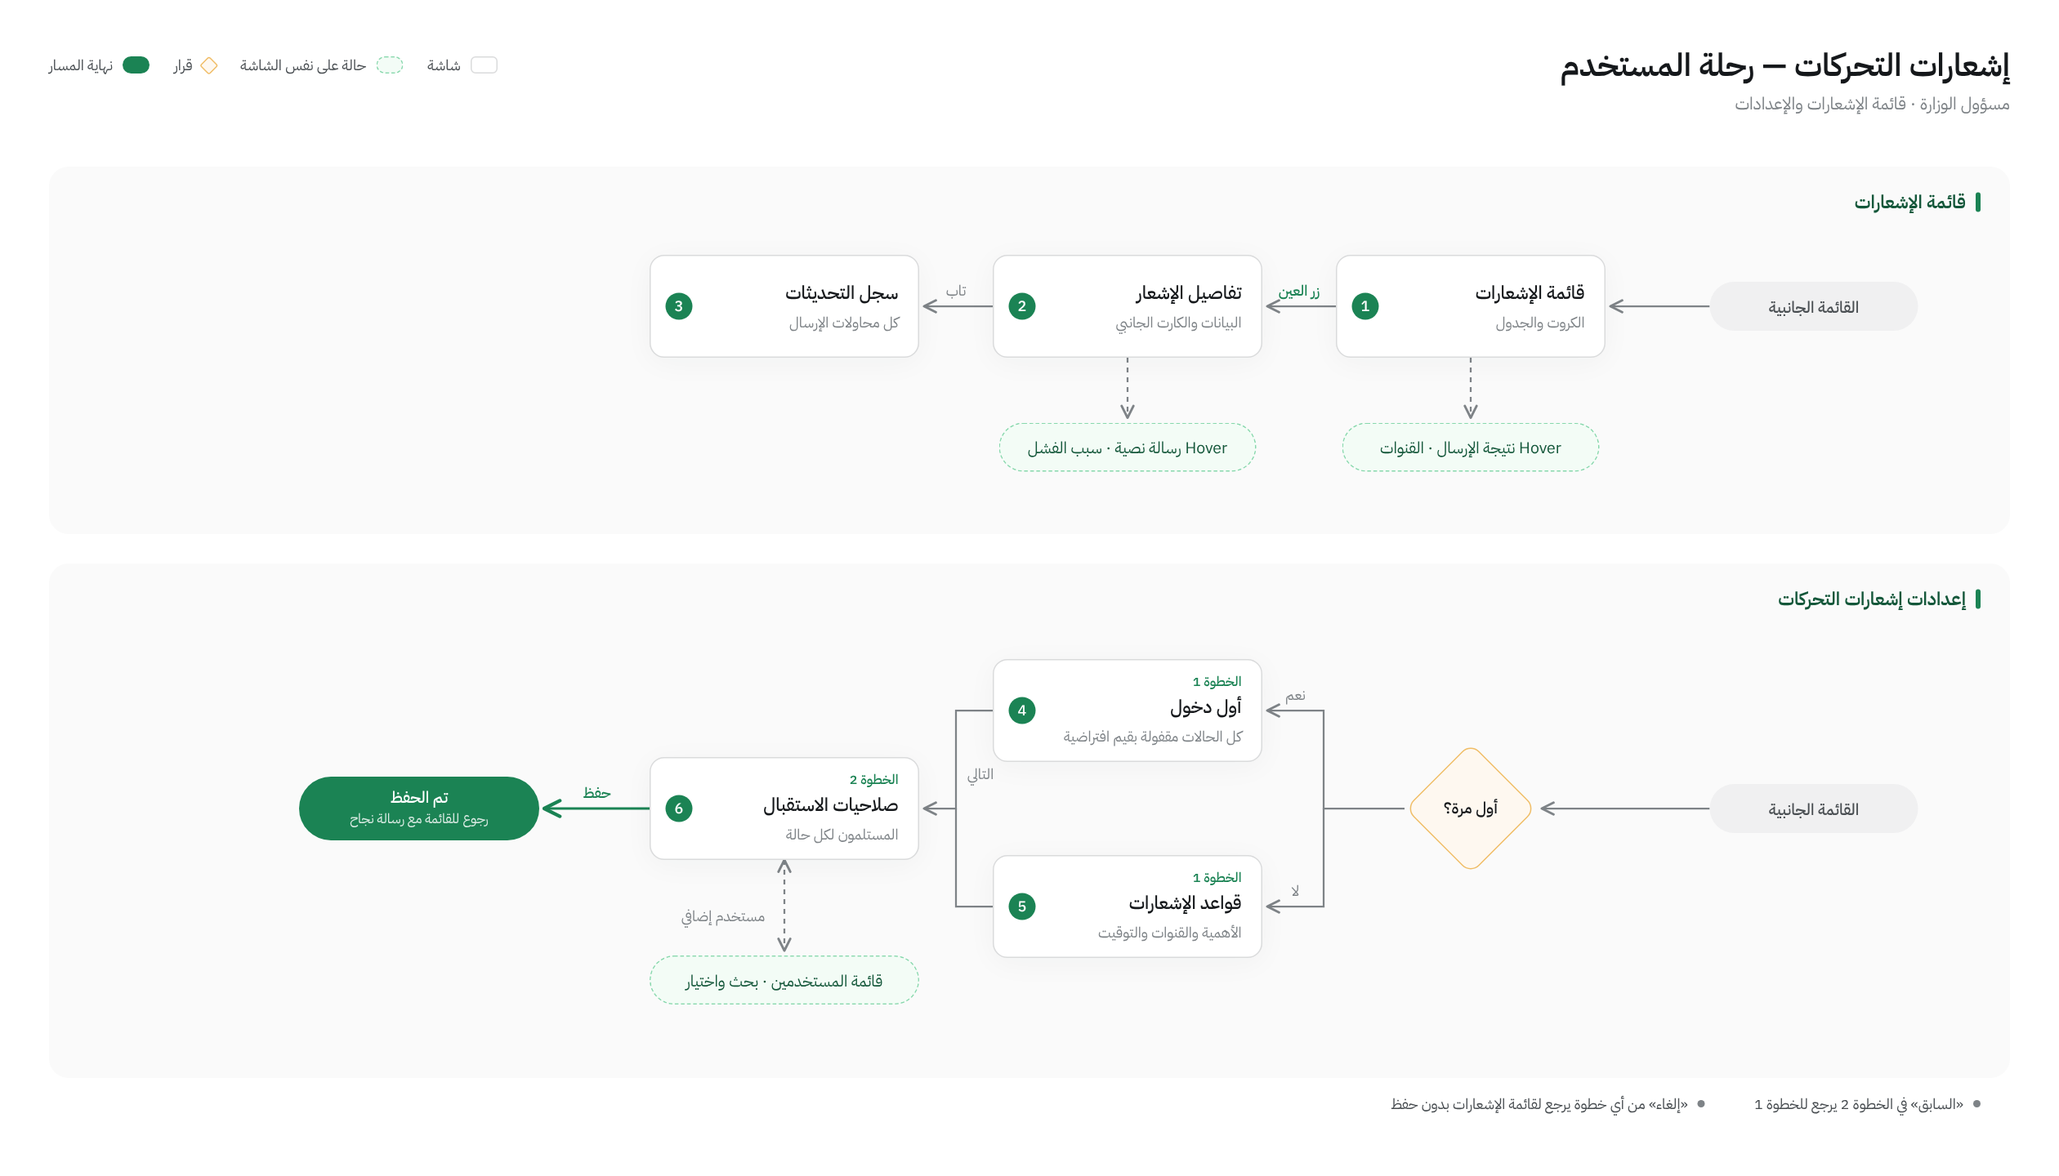
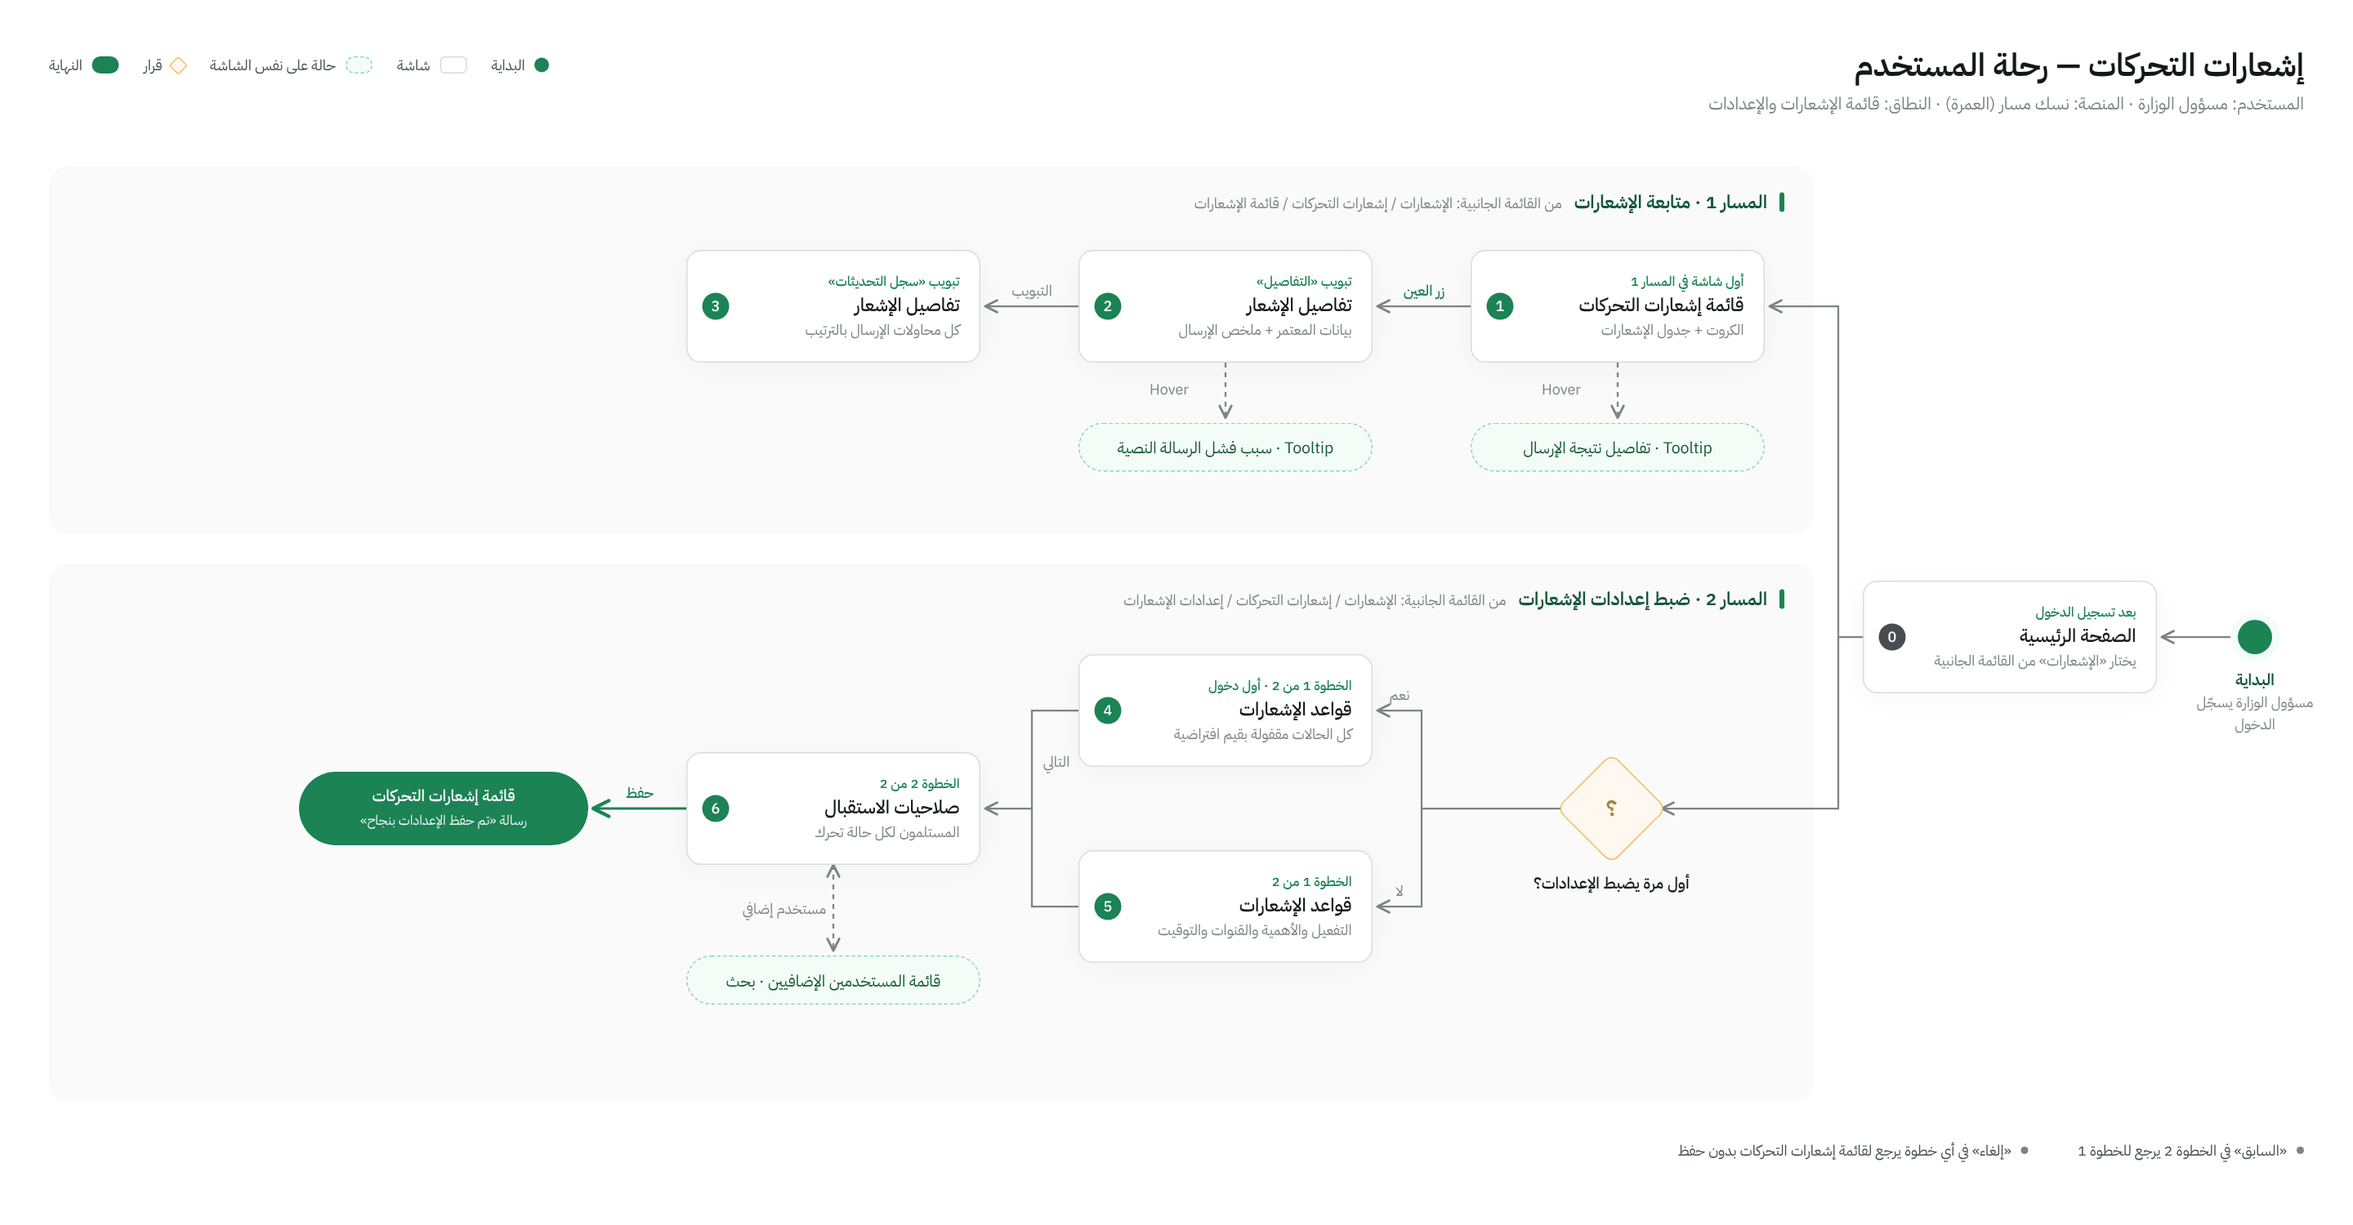
User flow v3: explicit start point, real screen names and nav paths
Claude-Session: https://claude.ai/code/session_01CyctH4WFBszWbBNkvnfQuz

diff --git a/flows/movement-notifications-user-flow.html b/flows/movement-notifications-user-flow.html
@@ -4,91 +4,104 @@
 :root{--sa600:#1b8354;--sa800:#14573a;--sa50:#f3fcf6;--sa300:#88d8ad;--n10:#fafafa;--n20:#f0f0f1;--n30:#dadbdc;--n60:#7e8387;--n80:#484d51;--n200:#15181b;--straw20:#fef8f0;--straw100:#f0bd66;}
 *{box-sizing:border-box}
 body{margin:0;background:#fff;font-family:"IBM Plex Sans Arabic";color:var(--n200)}
-#c{position:relative;width:1680px;height:960px;background:#fff}
+#c{position:relative;width:1920px;height:1000px;background:#fff}
 .title{position:absolute;right:40px;top:36px;font-weight:600;font-size:26px;line-height:36px}
 .sub{position:absolute;right:40px;top:74px;font-size:14px;color:var(--n60)}
-.lane{position:absolute;left:40px;width:1600px;background:var(--n10);border-radius:16px}
-.laneT{position:absolute;right:24px;top:18px;font-weight:600;font-size:15px;color:var(--sa800);display:flex;gap:8px;align-items:center}
-.laneT i{width:4px;height:16px;border-radius:2px;background:var(--sa600);display:inline-block}
-.card{position:absolute;width:220px;height:84px;background:#fff;border:1px solid var(--n30);border-radius:12px;padding:0 16px;display:flex;flex-direction:column;justify-content:center;box-shadow:0 4px 24px rgba(35,40,45,.04)}
-.card em{display:block;font-style:normal;font-size:11px;line-height:14px;color:var(--sa600);font-weight:500;margin-bottom:2px}
-.card b{display:block;white-space:nowrap;font-weight:500;font-size:15px;line-height:22px;padding-left:28px}
-.card span{display:block;font-size:12px;line-height:18px;color:var(--n60);margin-top:4px}
+.lane{position:absolute;left:40px;width:1440px;background:var(--n10);border-radius:16px}
+.laneT{position:absolute;right:24px;top:18px;display:flex;gap:10px;align-items:baseline}
+.laneT b{font-weight:600;font-size:15px;color:var(--sa800)}
+.laneT span{font-size:12px;color:var(--n60)}
+.laneT i{align-self:center;width:4px;height:16px;border-radius:2px;background:var(--sa600);display:inline-block}
+.card{position:absolute;width:240px;height:92px;background:#fff;border:1px solid var(--n30);border-radius:12px;padding:0 16px 0 44px;display:flex;flex-direction:column;justify-content:center;box-shadow:0 4px 24px rgba(35,40,45,.04)}
+.card em{font-style:normal;font-size:11px;line-height:16px;color:var(--sa600);font-weight:500;white-space:nowrap}
+.card b{font-weight:500;font-size:15px;line-height:22px;white-space:nowrap}
+.card span{font-size:12px;line-height:18px;color:var(--n60);white-space:nowrap}
 .num{position:absolute;left:12px;top:50%;margin-top:-11px;width:22px;height:22px;border-radius:11px;background:var(--sa600);color:#fff;font-size:12px;font-weight:500;display:flex;align-items:center;justify-content:center}
+.card.home .num{background:var(--n80)}
 .pill{position:absolute;height:40px;border-radius:20px;display:flex;align-items:center;justify-content:center;font-size:13px;white-space:nowrap}
 .state{background:var(--sa50);border:1px dashed var(--sa300);color:var(--sa800)}
-.start{background:var(--n20);color:var(--n80);font-weight:500}
-.endp{background:var(--sa600);color:#fff;font-weight:500;height:52px;border-radius:26px;flex-direction:column;line-height:18px}
-.endp small{font-size:11px;font-weight:400;opacity:.85}
-.dia{position:absolute;width:76px;height:76px;transform:rotate(45deg);background:var(--straw20);border:1.5px solid var(--straw100);border-radius:10px}
-.diaT{position:absolute;width:120px;text-align:center;font-size:13px;font-weight:500}
+.endp{background:var(--sa600);color:#fff;font-weight:500;height:60px;border-radius:30px;flex-direction:column;line-height:20px}
+.endp small{font-size:11px;font-weight:400;opacity:.9}
+.dia{position:absolute;width:64px;height:64px;transform:rotate(45deg);background:var(--straw20);border:1.5px solid var(--straw100);border-radius:8px}
+.diaQ{position:absolute;font-size:18px;font-weight:600;color:#a88447;width:40px;text-align:center}
+.diaT{position:absolute;width:160px;text-align:center;font-size:13px;font-weight:500;line-height:18px}
 .lbl{position:absolute;font-size:12px;color:var(--n60);line-height:18px;white-space:nowrap;transform:translate(50%,-100%);padding-bottom:4px}
 .lbl.g{color:var(--sa600);font-weight:500}
+.start{position:absolute;width:28px;height:28px;border-radius:14px;background:var(--sa600);box-shadow:0 0 0 6px var(--sa50)}
+.startT{position:absolute;width:130px;text-align:center;font-size:13px;line-height:18px}
+.startT b{display:block;font-weight:600;color:var(--sa800)}
+.startT span{color:var(--n60);font-size:12px}
 svg{position:absolute;left:0;top:0}
 .legend{position:absolute;left:40px;top:44px;display:flex;gap:20px;font-size:12px;color:var(--n80);align-items:center}
 .legend div{display:flex;gap:8px;align-items:center}
+.lg-start{width:12px;height:12px;border-radius:6px;background:var(--sa600)}
 .lg-card{width:22px;height:14px;border:1px solid var(--n30);border-radius:4px;background:#fff}
 .lg-state{width:22px;height:14px;border:1px dashed var(--sa300);border-radius:7px;background:var(--sa50)}
 .lg-dia{width:11px;height:11px;transform:rotate(45deg);border:1.5px solid var(--straw100);background:var(--straw20);border-radius:2px}
 .lg-end{width:22px;height:14px;border-radius:7px;background:var(--sa600)}
-.notes{position:absolute;right:64px;top:892px;display:flex;gap:40px;font-size:12px;color:var(--n80)}
+.notes{position:absolute;right:40px;top:930px;display:flex;gap:40px;font-size:12px;color:var(--n80)}
 .notes div{display:flex;gap:8px;align-items:center}
 .notes i{display:inline-block;width:6px;height:6px;border-radius:3px;background:var(--n60)}
 </style></head><body><div id="c">
 <div class="title">إشعارات التحركات — رحلة المستخدم</div>
-<div class="sub">مسؤول الوزارة · قائمة الإشعارات والإعدادات</div>
-<div class="legend"><div><span class="lg-card"></span>شاشة</div><div><span class="lg-state"></span>حالة على نفس الشاشة</div><div><span class="lg-dia"></span>قرار</div><div><span class="lg-end"></span>نهاية المسار</div></div>
+<div class="sub">المستخدم: مسؤول الوزارة · المنصة: نسك مسار (العمرة) · النطاق: قائمة الإشعارات والإعدادات</div>
+<div class="legend"><div><span class="lg-start"></span>البداية</div><div><span class="lg-card"></span>شاشة</div><div><span class="lg-state"></span>حالة على نفس الشاشة</div><div><span class="lg-dia"></span>قرار</div><div><span class="lg-end"></span>النهاية</div></div>
 
-<div class="lane" style="top:136px;height:300px"><div class="laneT"><i></i>قائمة الإشعارات</div></div>
-<div class="lane" style="top:460px;height:420px"><div class="laneT"><i></i>إعدادات إشعارات التحركات</div></div>
+<div class="lane" style="top:136px;height:300px"><div class="laneT"><i></i><b>المسار 1 · متابعة الإشعارات</b><span>من القائمة الجانبية: الإشعارات / إشعارات التحركات / قائمة الإشعارات</span></div></div>
+<div class="lane" style="top:460px;height:440px"><div class="laneT"><i></i><b>المسار 2 · ضبط إعدادات الإشعارات</b><span>من القائمة الجانبية: الإشعارات / إشعارات التحركات / إعدادات الإشعارات</span></div></div>
 
-<svg width="1680" height="960" viewBox="0 0 1680 960" fill="none">
+<svg width="1920" height="1000" viewBox="0 0 1920 1000" fill="none">
 <defs>
 <marker id="a" viewBox="0 0 10 10" refX="9" refY="5" markerWidth="8" markerHeight="8" orient="auto-start-reverse"><path d="M1 1L9 5L1 9" stroke="#7e8387" stroke-width="1.6" fill="none" stroke-linecap="round" stroke-linejoin="round"/></marker>
 <marker id="ag" viewBox="0 0 10 10" refX="9" refY="5" markerWidth="8" markerHeight="8" orient="auto-start-reverse"><path d="M1 1L9 5L1 9" stroke="#1b8354" stroke-width="1.8" fill="none" stroke-linecap="round" stroke-linejoin="round"/></marker>
 </defs>
 <g stroke="#7e8387" stroke-width="1.5">
-<!-- lane 1 -->
-<path d="M1395 250H1314" marker-end="url(#a)"/>
-<path d="M1090 250H1034" marker-end="url(#a)"/>
-<path d="M810 250H754" marker-end="url(#a)"/>
-<path d="M1200 292V341" stroke-dasharray="4 4" marker-end="url(#a)"/>
-<path d="M920 292V341" stroke-dasharray="4 4" marker-end="url(#a)"/>
-<!-- lane 2 -->
-<path d="M1395 660H1258" marker-end="url(#a)"/>
-<path d="M1146 660H1080V580H1034" marker-end="url(#a)"/>
-<path d="M1080 660V740H1034"  marker-end="url(#a)"/>
-<path d="M810 580H780V660H754" marker-end="url(#a)"/>
-<path d="M810 740H780V660"/>
-<path d="M640 702V776" stroke-dasharray="4 4" marker-end="url(#a)" marker-start="url(#a)"/>
+<path d="M1826 520H1764" marker-end="url(#a)"/>
+<path d="M1520 520H1500V250H1444" marker-end="url(#a)"/>
+<path d="M1500 520V660H1356" marker-end="url(#a)"/>
+<path d="M1200 250H1124" marker-end="url(#a)"/>
+<path d="M880 250H804" marker-end="url(#a)"/>
+<path d="M1320 296V341" stroke-dasharray="4 4" marker-end="url(#a)"/>
+<path d="M1000 296V341" stroke-dasharray="4 4" marker-end="url(#a)"/>
+<path d="M1274 660H1160V580H1124" marker-end="url(#a)"/>
+<path d="M1160 660V740H1124" marker-end="url(#a)"/>
+<path d="M880 580H842V660H804" marker-end="url(#a)"/>
+<path d="M880 740H842V660"/>
+<path d="M680 706V776" stroke-dasharray="4 4" marker-end="url(#a)" marker-start="url(#a)"/>
 </g>
-<path d="M530 660H444" stroke="#1b8354" stroke-width="2" marker-end="url(#ag)"/>
+<path d="M560 660H484" stroke="#1b8354" stroke-width="2" marker-end="url(#ag)"/>
 </svg>
 
-<!-- lane 1 nodes -->
-<div class="pill start" style="left:1395px;top:230px;width:170px">القائمة الجانبية</div>
-<div class="card" style="left:1090px;top:208px"><div class="num">1</div><b>قائمة الإشعارات</b><span>الكروت والجدول</span></div>
-<div class="card" style="left:810px;top:208px"><div class="num">2</div><b>تفاصيل الإشعار</b><span>البيانات والكارت الجانبي</span></div>
-<div class="card" style="left:530px;top:208px"><div class="num">3</div><b>سجل التحديثات</b><span>كل محاولات الإرسال</span></div>
-<div class="pill state" style="left:1095px;top:345px;width:210px">Hover نتيجة الإرسال · القنوات</div>
-<div class="pill state" style="left:815px;top:345px;width:210px">Hover رسالة نصية · سبب الفشل</div>
-<div class="lbl g" style="right:calc(1680px - 1060px);top:250px">زر العين</div>
-<div class="lbl" style="right:calc(1680px - 780px);top:250px">تاب</div>
+<!-- entry -->
+<div class="start" style="left:1826px;top:506px"></div>
+<div class="startT" style="left:1775px;top:546px"><b>البداية</b><span>مسؤول الوزارة يسجّل الدخول</span></div>
+<div class="card home" style="left:1520px;top:474px"><div class="num">0</div><em>بعد تسجيل الدخول</em><b>الصفحة الرئيسية</b><span>يختار «الإشعارات» من القائمة الجانبية</span></div>
 
-<!-- lane 2 nodes -->
-<div class="pill start" style="left:1395px;top:640px;width:170px">القائمة الجانبية</div>
-<div class="dia" style="left:1162px;top:622px"></div>
-<div class="diaT" style="left:1140px;top:650px">أول مرة؟</div>
-<div class="lbl" style="right:calc(1680px - 1057px);top:580px">نعم</div>
-<div class="lbl" style="right:calc(1680px - 1057px);top:740px">لا</div>
-<div class="card" style="left:810px;top:538px"><div class="num">4</div><em>الخطوة 1</em><b>أول دخول</b><span>كل الحالات مقفولة بقيم افتراضية</span></div>
-<div class="card" style="left:810px;top:698px"><div class="num">5</div><em>الخطوة 1</em><b>قواعد الإشعارات</b><span>الأهمية والقنوات والتوقيت</span></div>
-<div class="lbl" style="right:calc(1680px - 800px);top:632px;transform:translate(50%,-50%);padding:0">التالي</div>
-<div class="card" style="left:530px;top:618px"><div class="num">6</div><em>الخطوة 2</em><b>صلاحيات الاستقبال</b><span>المستلمون لكل حالة</span></div>
-<div class="pill state" style="left:530px;top:780px;width:220px">قائمة المستخدمين · بحث واختيار</div>
-<div class="lbl" style="right:calc(1680px - 590px);top:748px;transform:translate(50%,-50%);padding:0">مستخدم إضافي</div>
-<div class="lbl g" style="right:calc(1680px - 487px);top:660px">حفظ</div>
-<div class="pill endp" style="left:244px;top:634px;width:196px">تم الحفظ<small>رجوع للقائمة مع رسالة نجاح</small></div>
+<!-- lane 1 -->
+<div class="card" style="left:1200px;top:204px"><div class="num">1</div><em>أول شاشة في المسار 1</em><b>قائمة إشعارات التحركات</b><span>الكروت + جدول الإشعارات</span></div>
+<div class="card" style="left:880px;top:204px"><div class="num">2</div><em>تبويب «التفاصيل»</em><b>تفاصيل الإشعار</b><span>بيانات المعتمر + ملخص الإرسال</span></div>
+<div class="card" style="left:560px;top:204px"><div class="num">3</div><em>تبويب «سجل التحديثات»</em><b>تفاصيل الإشعار</b><span>كل محاولات الإرسال بالترتيب</span></div>
+<div class="pill state" style="left:1200px;top:345px;width:240px">Tooltip · تفاصيل نتيجة الإرسال</div>
+<div class="pill state" style="left:880px;top:345px;width:240px">Tooltip · سبب فشل الرسالة النصية</div>
+<div class="lbl g" style="right:calc(1920px - 1162px);top:250px">زر العين</div>
+<div class="lbl" style="right:calc(1920px - 842px);top:250px">التبويب</div>
+<div class="lbl" style="right:calc(1920px - 1290px);top:318px;transform:translate(0,-50%);padding:0">Hover</div>
+<div class="lbl" style="right:calc(1920px - 970px);top:318px;transform:translate(0,-50%);padding:0">Hover</div>
 
-<div class="notes"><div><i></i>«السابق» في الخطوة 2 يرجع للخطوة 1</div><div><i></i>«إلغاء» من أي خطوة يرجع لقائمة الإشعارات بدون حفظ</div></div>
+<!-- lane 2 -->
+<div class="dia" style="left:1283px;top:628px"></div>
+<div class="diaQ" style="left:1295px;top:646px">؟</div>
+<div class="diaT" style="left:1235px;top:712px">أول مرة يضبط الإعدادات؟</div>
+<div class="lbl" style="right:calc(1920px - 1142px);top:580px">نعم</div>
+<div class="lbl" style="right:calc(1920px - 1142px);top:740px">لا</div>
+<div class="card" style="left:880px;top:534px"><div class="num">4</div><em>الخطوة 1 من 2 · أول دخول</em><b>قواعد الإشعارات</b><span>كل الحالات مقفولة بقيم افتراضية</span></div>
+<div class="card" style="left:880px;top:694px"><div class="num">5</div><em>الخطوة 1 من 2</em><b>قواعد الإشعارات</b><span>التفعيل والأهمية والقنوات والتوقيت</span></div>
+<div class="lbl" style="right:calc(1920px - 862px);top:622px;transform:translate(50%,-50%);padding:0">التالي</div>
+<div class="card" style="left:560px;top:614px"><div class="num">6</div><em>الخطوة 2 من 2</em><b>صلاحيات الاستقبال</b><span>المستلمون لكل حالة تحرك</span></div>
+<div class="pill state" style="left:560px;top:780px;width:240px">قائمة المستخدمين الإضافيين · بحث</div>
+<div class="lbl" style="right:calc(1920px - 640px);top:742px;transform:translate(50%,-50%);padding:0">مستخدم إضافي</div>
+<div class="lbl g" style="right:calc(1920px - 522px);top:660px">حفظ</div>
+<div class="pill endp" style="left:244px;top:630px;width:236px">قائمة إشعارات التحركات<small>رسالة «تم حفظ الإعدادات بنجاح»</small></div>
+
+<div class="notes"><div><i></i>«السابق» في الخطوة 2 يرجع للخطوة 1</div><div><i></i>«إلغاء» في أي خطوة يرجع لقائمة إشعارات التحركات بدون حفظ</div></div>
 </div></body></html>
